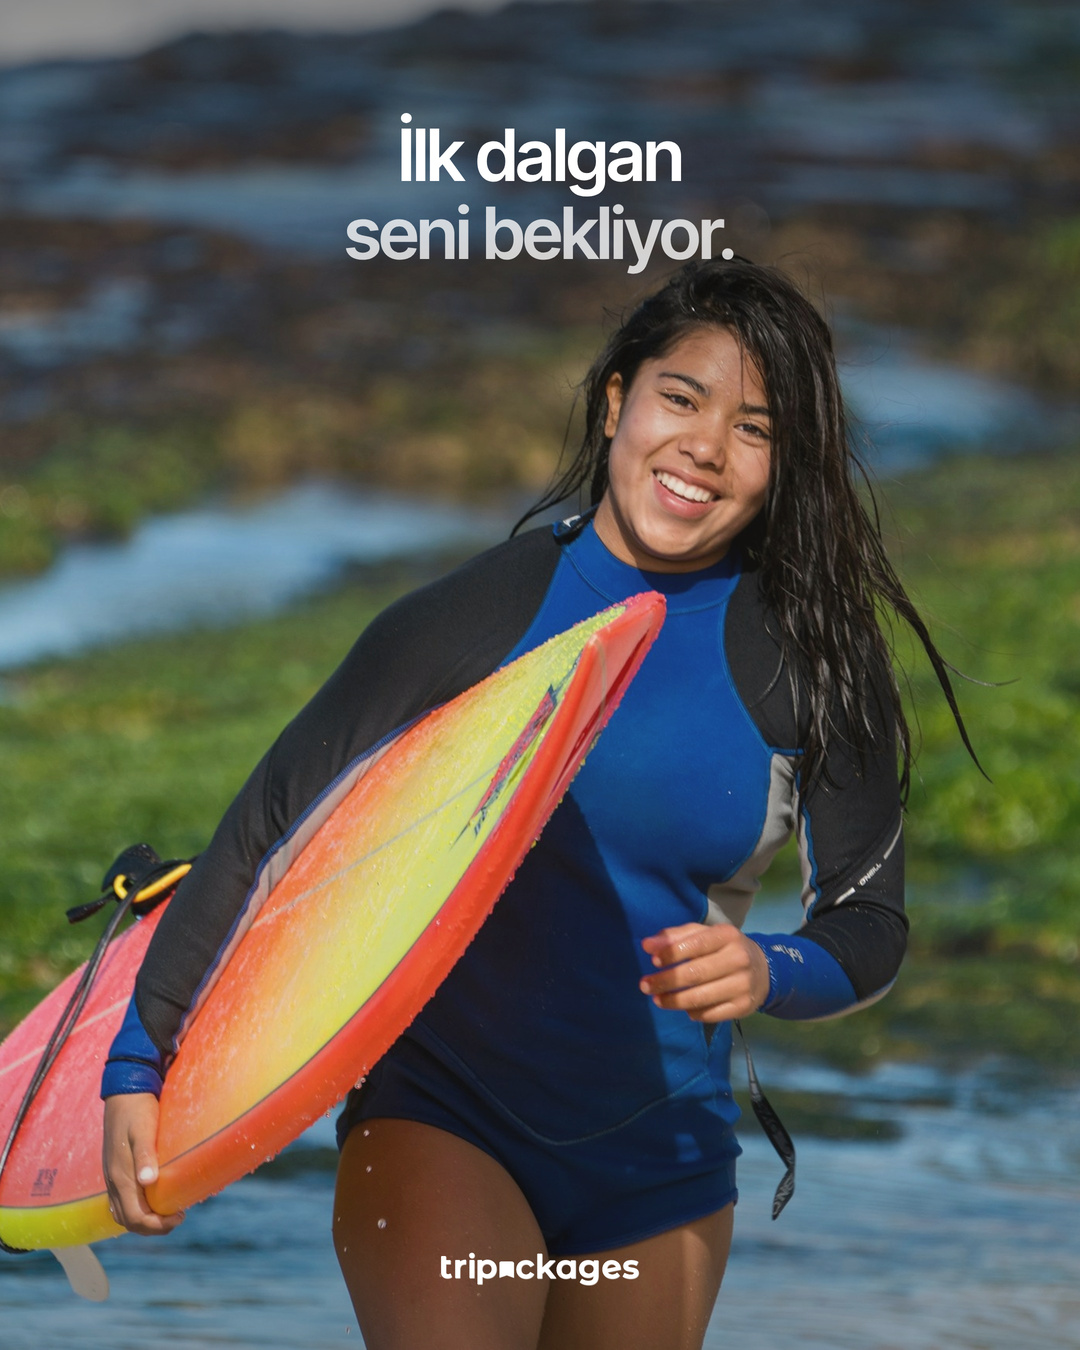
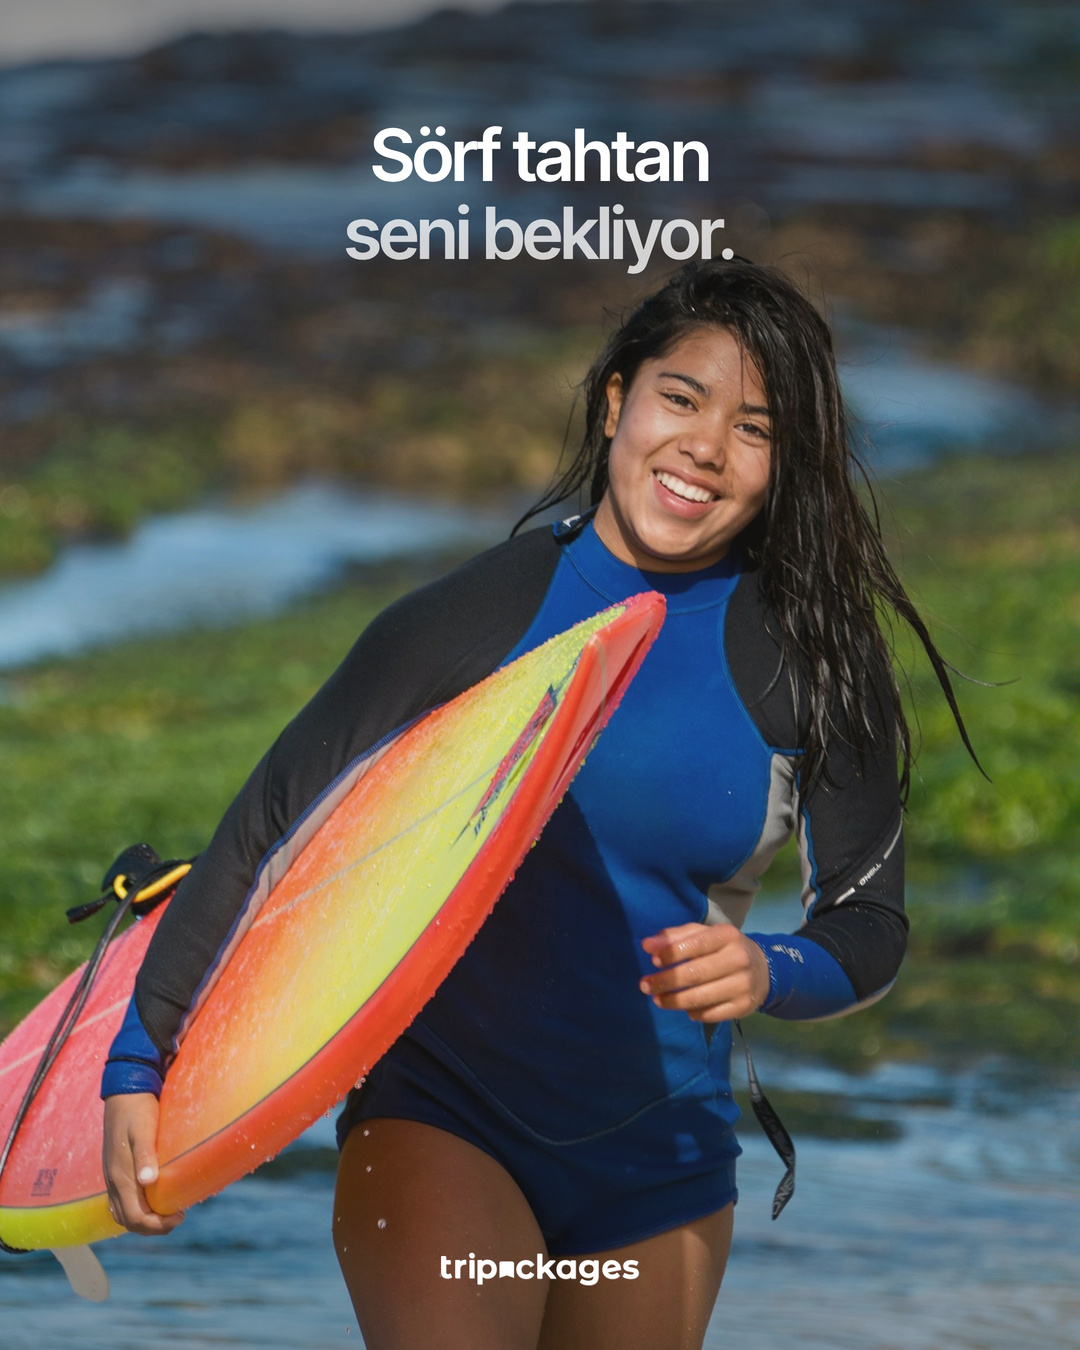
Sörf: başlık güncellendi
Claude-Session: https://claude.ai/code/session_012HJ77KxWTxqAWZNmEqzNdK

Changed region(s): [[0.3361, 0.0933, 0.6722, 0.1556]]

diff --git a/README.md b/README.md
@@ -22,7 +22,7 @@ Her gün 18:47 (İstanbul): Facebook post, Instagram post + story, LinkedIn post
 | 2026-12-05 | İşletme | isletme-ucretsiz | isletme-mutfak | Listeleme ücretsiz, kısıtlama yok. Deneyiminizi bugün Tripackages'a ekleyin. #turizm #işletme |
 | 2026-12-06 | Deneyim | deneyim-kano | deneyim-sorf | Sessiz bir göl, tek bir kürek. Kano ve doğa turlarını keşfet. tripackages.com #kano #doğa #deneyim |
 | 2026-12-07 | İşletme | isletme-mutfak | isletme-gokyuzu | Mutfağınızı misafirlere açın. Yemek atölyelerinizi Tripackages'ta ücretsiz listeleyin. #yemekatölyesi #deneyim |
-| 2026-12-08 | Deneyim | deneyim-sorf | deneyim-aurora | İlk dalgan seni bekliyor. Sörf dersleri ve deniz deneyimleri Tripackages'ta. tripackages.com #sörf #deneyim |
+| 2026-12-08 | Deneyim | deneyim-sorf | deneyim-aurora | Sörf tahtan seni bekliyor. Sörf dersleri ve deniz deneyimleri Tripackages'ta. tripackages.com #sörf #deneyim |
 | 2026-12-09 | İşletme | isletme-gokyuzu | isletme-dalis | Gökyüzünü paylaşın. Balon ve hava aktivitelerinizi Tripackages'ta listeleyin. #balonturu #turizm |
 | 2026-12-10 | Deneyim | deneyim-aurora | deneyim-bisiklet | Gökyüzünün dansına tanık ol. Kuzey ışıkları turları Tripackages'ta. tripackages.com #kuzeyışıkları #deneyim |
 | 2026-12-11 | İşletme | isletme-dalis | isletme-kurallar | Dalış merkezinizi öne çıkarın. Dalış turlarınızı ücretsiz listeleyin, komisyon ödemeyin. #dalış #turizm |
